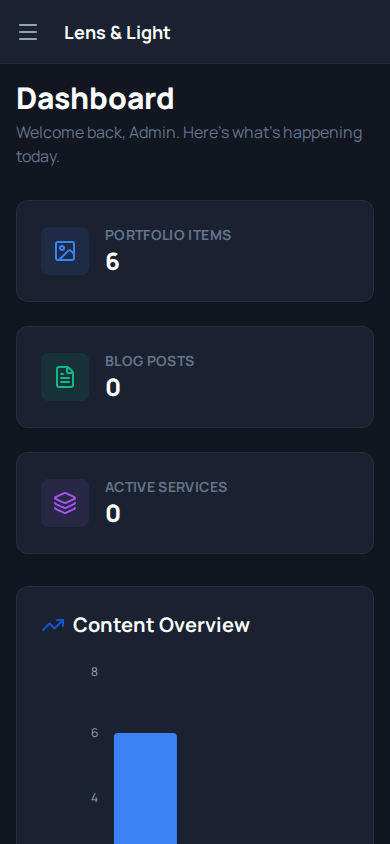
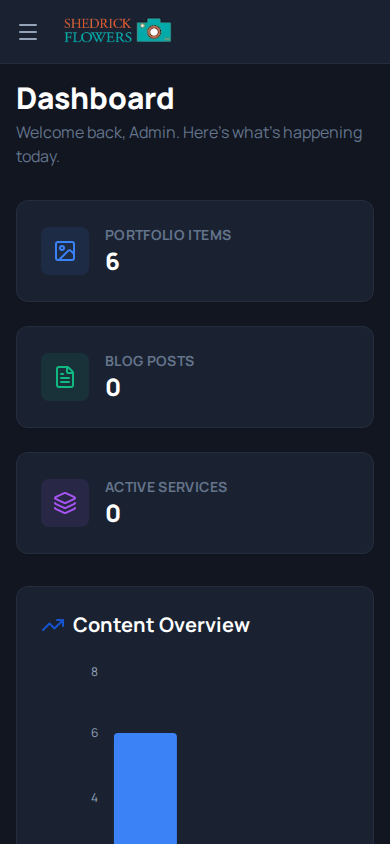
Update Admin mobile header to use dynamic site branding

Changed region(s): [[0.1538, 0.0, 0.4615, 0.0616]]

diff --git a/src/components/layouts/AdminLayout.tsx b/src/components/layouts/AdminLayout.tsx
@@ -1,6 +1,7 @@
-import React, { useState } from 'react';
+import React, { useState, useEffect } from 'react';
 import { Outlet, NavLink, useNavigate, useLocation } from 'react-router-dom';
 import { useAuth } from '../../context/AuthContext';
+import { supabase } from '../../services/supabaseClient';
 import {
     LayoutDashboard,
     Image as ImageIcon,
@@ -25,6 +26,32 @@ export const AdminLayout = () => {
         typeof window !== 'undefined' ? window.innerWidth >= 768 : false
     );
     const location = useLocation();
+
+    // Branding State
+    const [logoUrl, setLogoUrl] = useState(localStorage.getItem('site_logo_url') || '');
+    const [siteTitle, setSiteTitle] = useState(localStorage.getItem('site_title') || 'Lens & Light');
+
+    useEffect(() => {
+        const fetchSettings = async () => {
+            const { data } = await supabase
+                .from('settings')
+                .select('logo_url, site_title')
+                .eq('id', 1)
+                .single();
+
+            if (data) {
+                if (data.logo_url) {
+                    setLogoUrl(data.logo_url);
+                    localStorage.setItem('site_logo_url', data.logo_url);
+                }
+                if (data.site_title) {
+                    setSiteTitle(data.site_title);
+                    localStorage.setItem('site_title', data.site_title);
+                }
+            }
+        };
+        fetchSettings();
+    }, []);
 
     const handleSignOut = async () => {
         await signOut();
@@ -197,7 +224,18 @@ export const AdminLayout = () => {
                     >
                         <Menu size={24} />
                     </button>
-                    <span className="font-bold text-lg text-slate-900 dark:text-white">Lens & Light</span>
+
+                    <div className="flex items-center gap-2">
+                         {logoUrl ? (
+                             <img
+                                src={logoUrl}
+                                alt={siteTitle}
+                                className="h-8 w-auto object-contain"
+                            />
+                        ) : (
+                            <span className="font-bold text-lg text-slate-900 dark:text-white">{siteTitle}</span>
+                        )}
+                    </div>
                 </header>
 
                 <div className="flex-1 overflow-auto p-4 md:p-8 relative scrollbar-hide">
